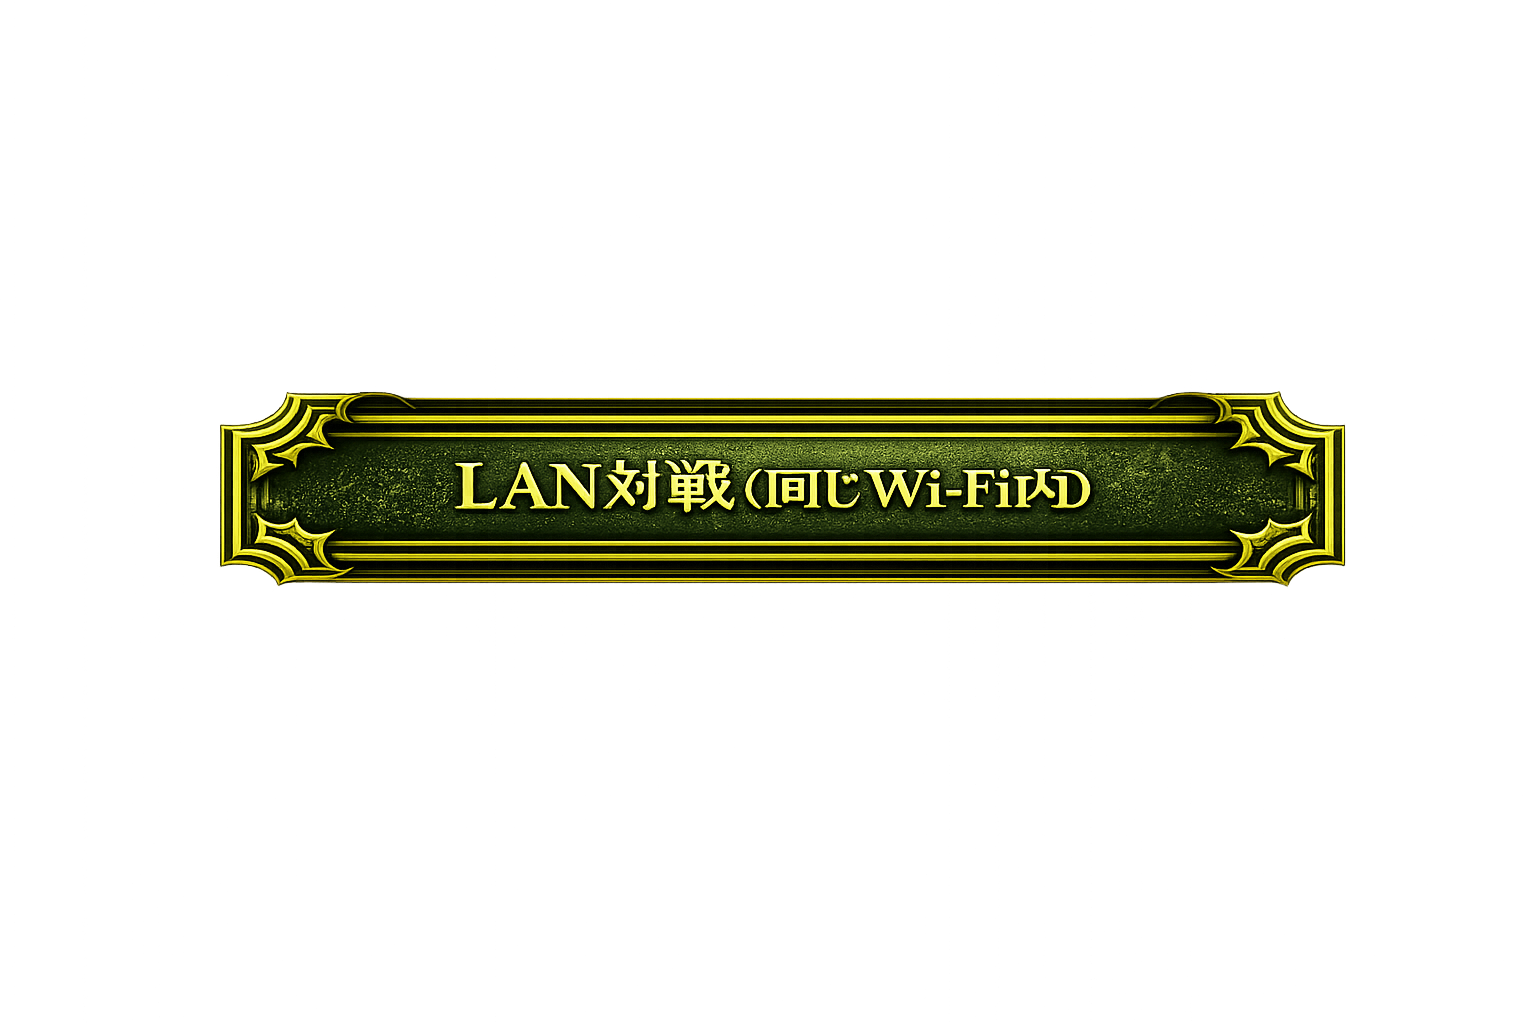
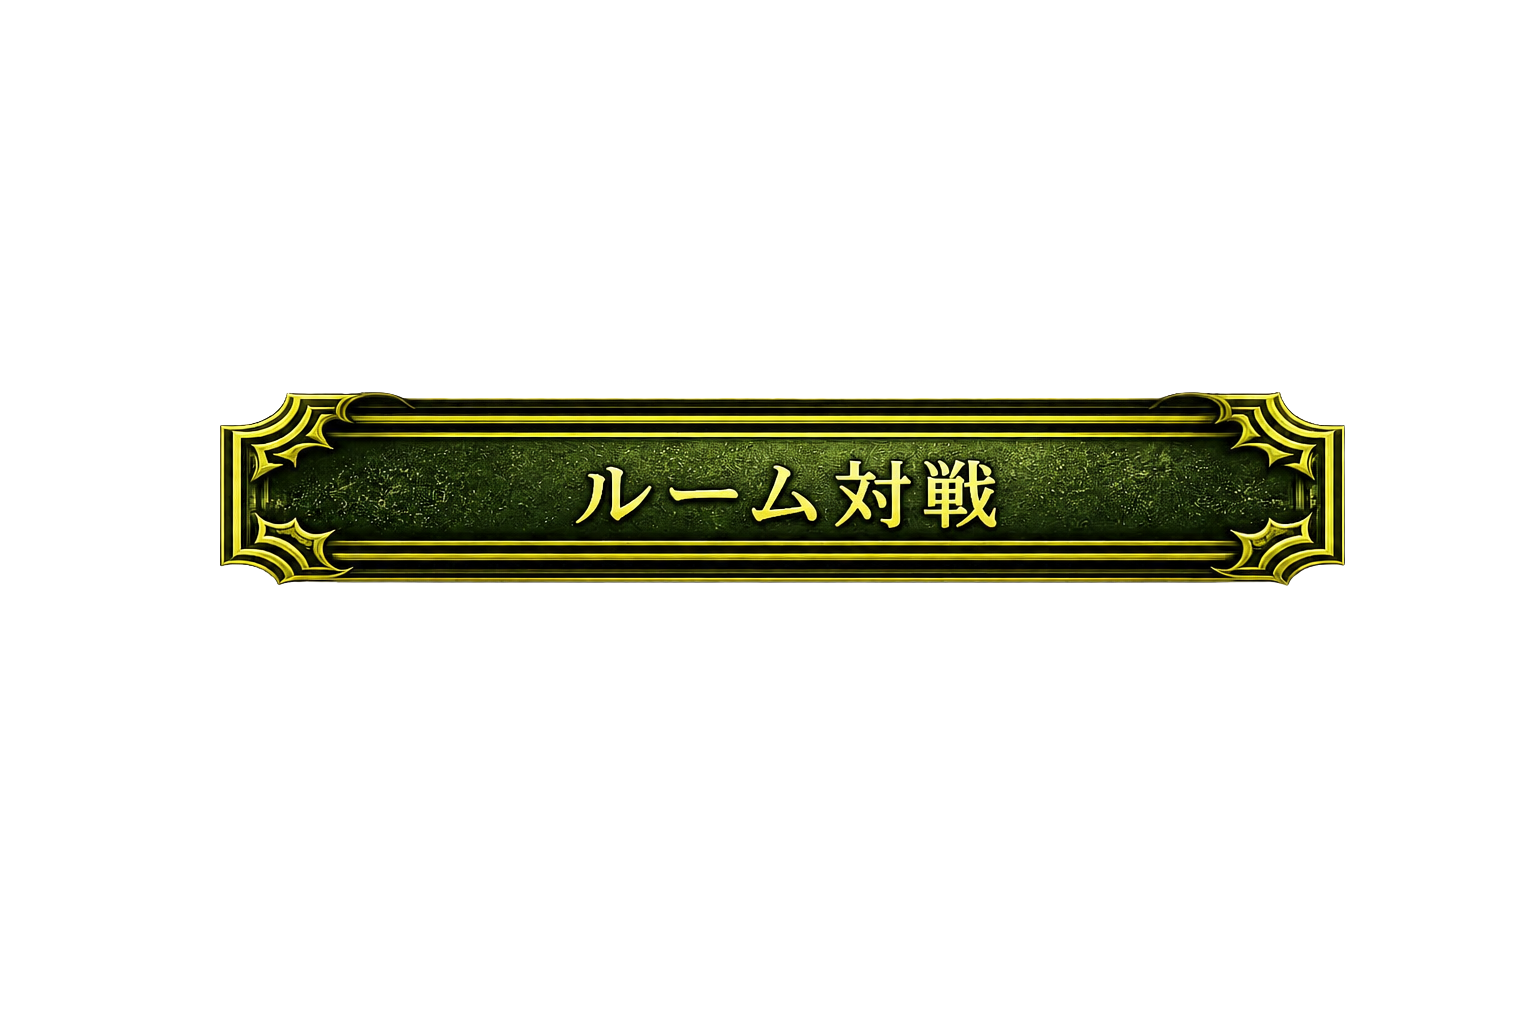
feat

Changed region(s): [[0.125, 0.375, 0.875, 0.5938]]

diff --git a/src/constants/home-assets.ts b/src/constants/home-assets.ts
@@ -12,7 +12,7 @@ export const homeAssets = {
   background: require('../../assets/home/background/home-bg.png'),
   userBar: require('../../assets/bundled/0129-home-ui-122ea6e3ec.png'),
   pvpBadge: require('../../assets/home/ui/pvp-badge.png'),
-  /** ホーム右上「オンライン対戦」エントリー（対人対戦.png） */
+  /** ホーム右上「オンライン対戦」エントリー */
   onlineBattleButton: require('../../assets/bundled/0184-online-battle-e365e9190b.png'),
   /** ホーム左上のガチャ玉装飾・色確認ボタン用 */
   gachaBallIcon: require('../../assets/bundled/0116-gacha-ball-d827cd454e.png'),
